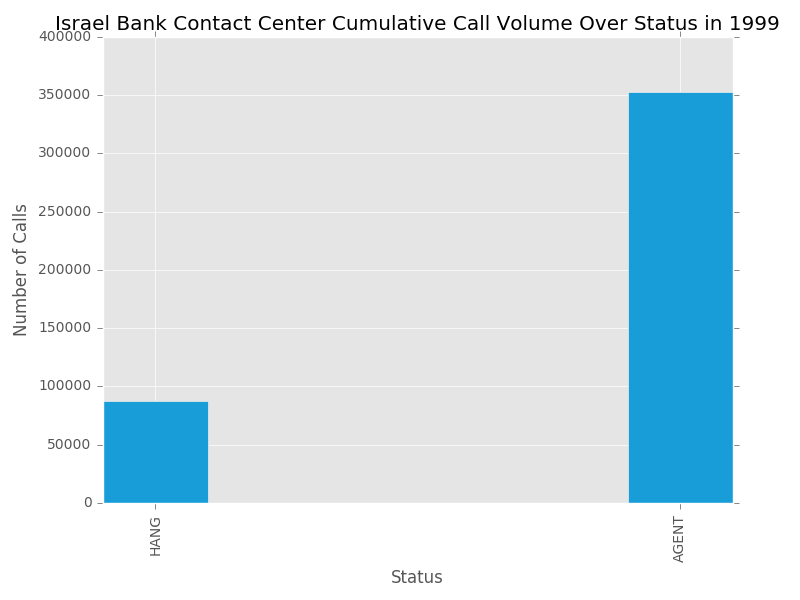
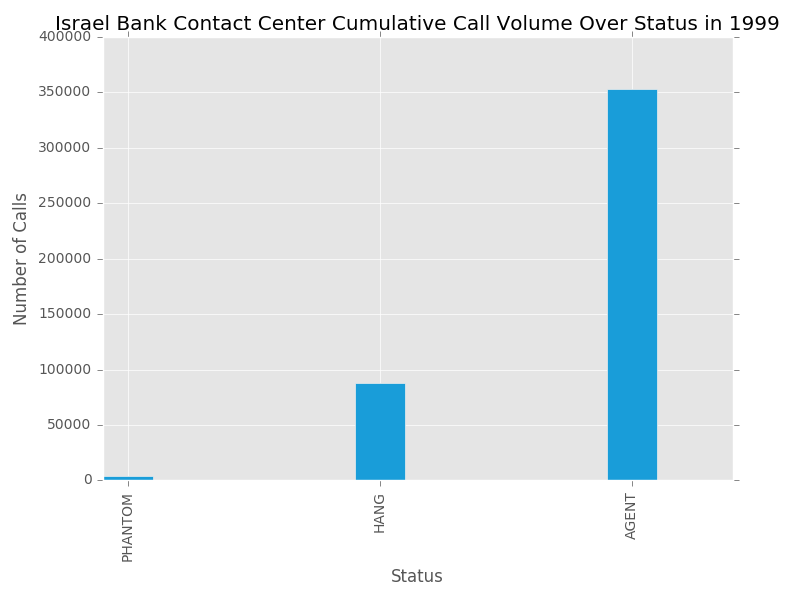
Add output dir for storing visuals

diff --git a/ContactCenterMain.py b/ContactCenterMain.py
@@ -20,6 +20,12 @@ def main():
     
     rawCallRecord, rawCallRecordColName = etl.dataETL(dir)
 
+    date_stats, vruline_stats, type_stats, outcome_stats, recordStartDate, recordEndDate = etl.callStats.volume_content(
+        rawCallRecord)
+    visualization.barplot(dir, outcome_stats.keys(), outcome_stats.values(),
+                          'Israel Bank Contact Center Cumulative Call Volume Over Status in 1999', 'Status',
+                          'Number of Calls', 0.2)
+
     callRecord = []
 
     if not os.path.isfile(dir+'/Israel_Bank_Data/1999_rmPHANTOM.txt'):
@@ -31,27 +37,22 @@ def main():
                 callRecord.append(row.strip().split('\t'))
         readTXT.close()
 
-    date_stats, vruline_stats, type_stats, outcome_stats, recordStartDate, recordEndDate = etl.callStats.volume(
+    date_stats, vruline_stats, type_stats, outcome_stats, recordStartDate, recordEndDate = etl.callStats.volume_content(
         callRecord)
+    month_stats = etl.callStats.volume_month(callRecord)
 
-    print date_stats
-    print vruline_stats
-    print type_stats
-    print outcome_stats
     print recordStartDate
     print recordEndDate
 
-    visualization.barplot(dir, date_stats.keys(), date_stats.values(),
-                          'Israel Bank Contact Center Daily Volume in 1999', 'Date', 'Number of Calls', 0.2)
+    visualization.barplot(dir, month_stats.keys(), month_stats.values(),
+                          'Israel Bank Contact Center Monthly Volume in 1999', 'Date', 'Number of Calls', 0.2)
     visualization.barplot(dir, vruline_stats.keys(), vruline_stats.values(),
                           'Israel Bank Contact Center Cumulative VRU Line Call Volume in 1999', 'VRU Line',
                           'Number of Calls', 0.2)
     visualization.barplot(dir, type_stats.keys(), type_stats.values(),
                           'Israel Bank Contact Center Cumulative Call Volume Over Types in 1999', 'Type',
                           'Number of Calls', 0.2)
-    visualization.barplot(dir, outcome_stats.keys(), outcome_stats.values(),
-                          'Israel Bank Contact Center Cumulative Call Volume Over Status in 1999', 'Status',
-                          'Number of Calls', 0.2)
+
 
     if not os.path.isfile(dir+'/Israel_Bank_Data/agg_D.csv'):
         callVolumeD = etl.callVolumeAGG(callRecord, rawCallRecordColName, 'D', recordStartDate, recordEndDate, True,

diff --git a/etl/callStats.py b/etl/callStats.py
@@ -1,7 +1,7 @@
 import pandas as pd
 from datetime import timedelta
 
-def volume(callRecord):
+def volume_content(callRecord):
     date_stats = {}
     vruline_stats = {}
     type_stats = {}
@@ -34,3 +34,31 @@ def volume(callRecord):
     recordEndDate = sortDate[len(sortDate) - 1].strftime(format='%y%m%d')
 
     return date_stats, vruline_stats, type_stats, outcome_stats, recordStartDate, recordEndDate
+
+def volume_date(callRecord):
+    date_stats = {}
+
+    for record in callRecord:
+        if record[5].strip() not in date_stats:
+            date_stats[record[5].strip()] = 1
+        else:
+            date_stats[record[5].strip()] += 1
+
+    sortDate = pd.to_datetime(date_stats.keys(), format='%y%m%d').sort_values(ascending=True)
+
+    recordStartDate = sortDate[0].strftime(format='%y%m%d')
+    recordEndDate = sortDate[len(sortDate) - 1].strftime(format='%y%m%d')
+
+    return date_stats, recordStartDate, recordEndDate
+
+def volume_month(callRecord):
+    month_stats = {}
+
+    for record in callRecord:
+        month = pd.to_datetime(record[5].strip(), format='%y%m%d').strftime('%B')
+        if month not in month_stats:
+            month_stats[month] = 1
+        else:
+            month_stats[month] += 1
+
+    return month_stats
